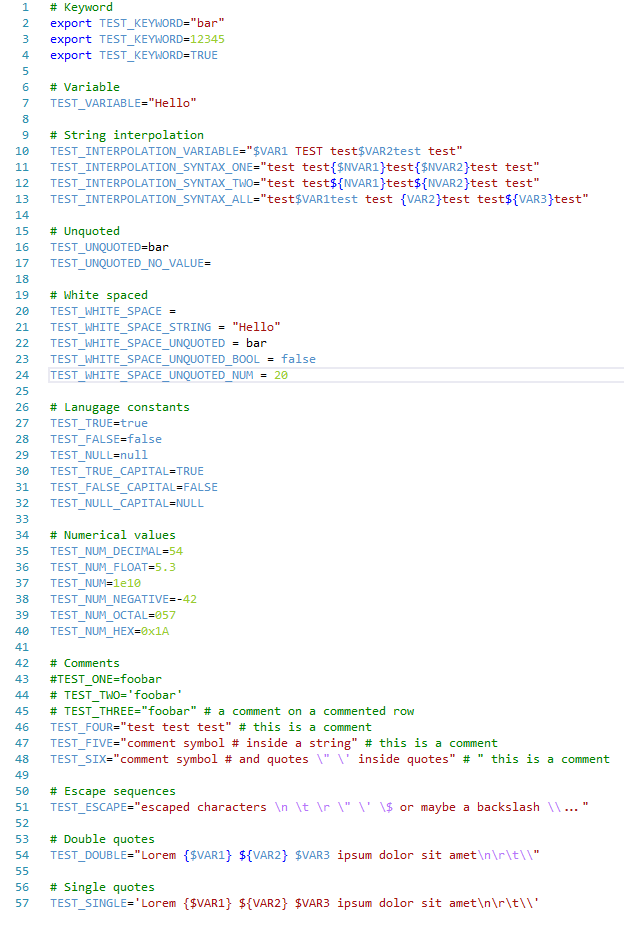
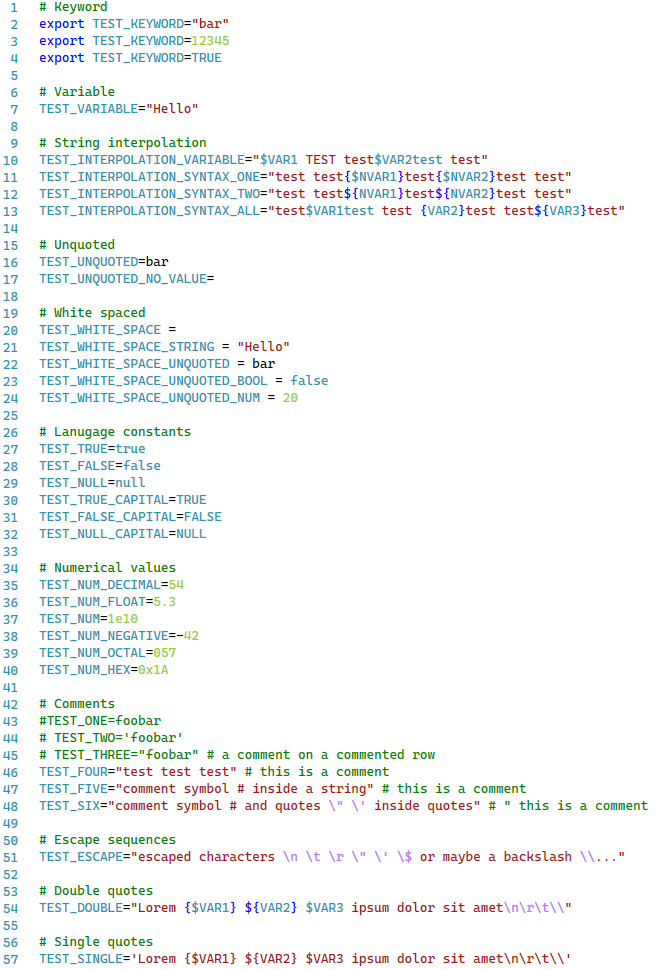
style: Improve theme support by using more vsclassificationtype

Changed region(s): [[0.0, 0.0, 0.9744, 1.0]]

diff --git a/README.md b/README.md
@@ -2,10 +2,12 @@
 
 A port of [DotENV](https://github.com/zaynali53/DotENV) for Visual Studio.
 
-[![CodeNav](https://github.com/sboulema/DotENV/actions/workflows/workflow.yml/badge.svg)](https://github.com/sboulema/DotENV/actions/workflows/workflow.yml)
+[![DotENV](https://github.com/sboulema/DotENV/actions/workflows/workflow.yml/badge.svg)](https://github.com/sboulema/DotENV/actions/workflows/workflow.yml)
 [![Sponsor](https://img.shields.io/badge/-Sponsor-fafbfc?logo=GitHub%20Sponsors)](https://github.com/sponsors/sboulema)
 
-![Example](https://i.imgur.com/EGlPWZA.png)
+![Light](https://i.imgur.com/EGlPWZA.png)
+
+![Dark](https://i.imgur.com/AHgQzAp.png)
 
 ### Acknowledgements
 
